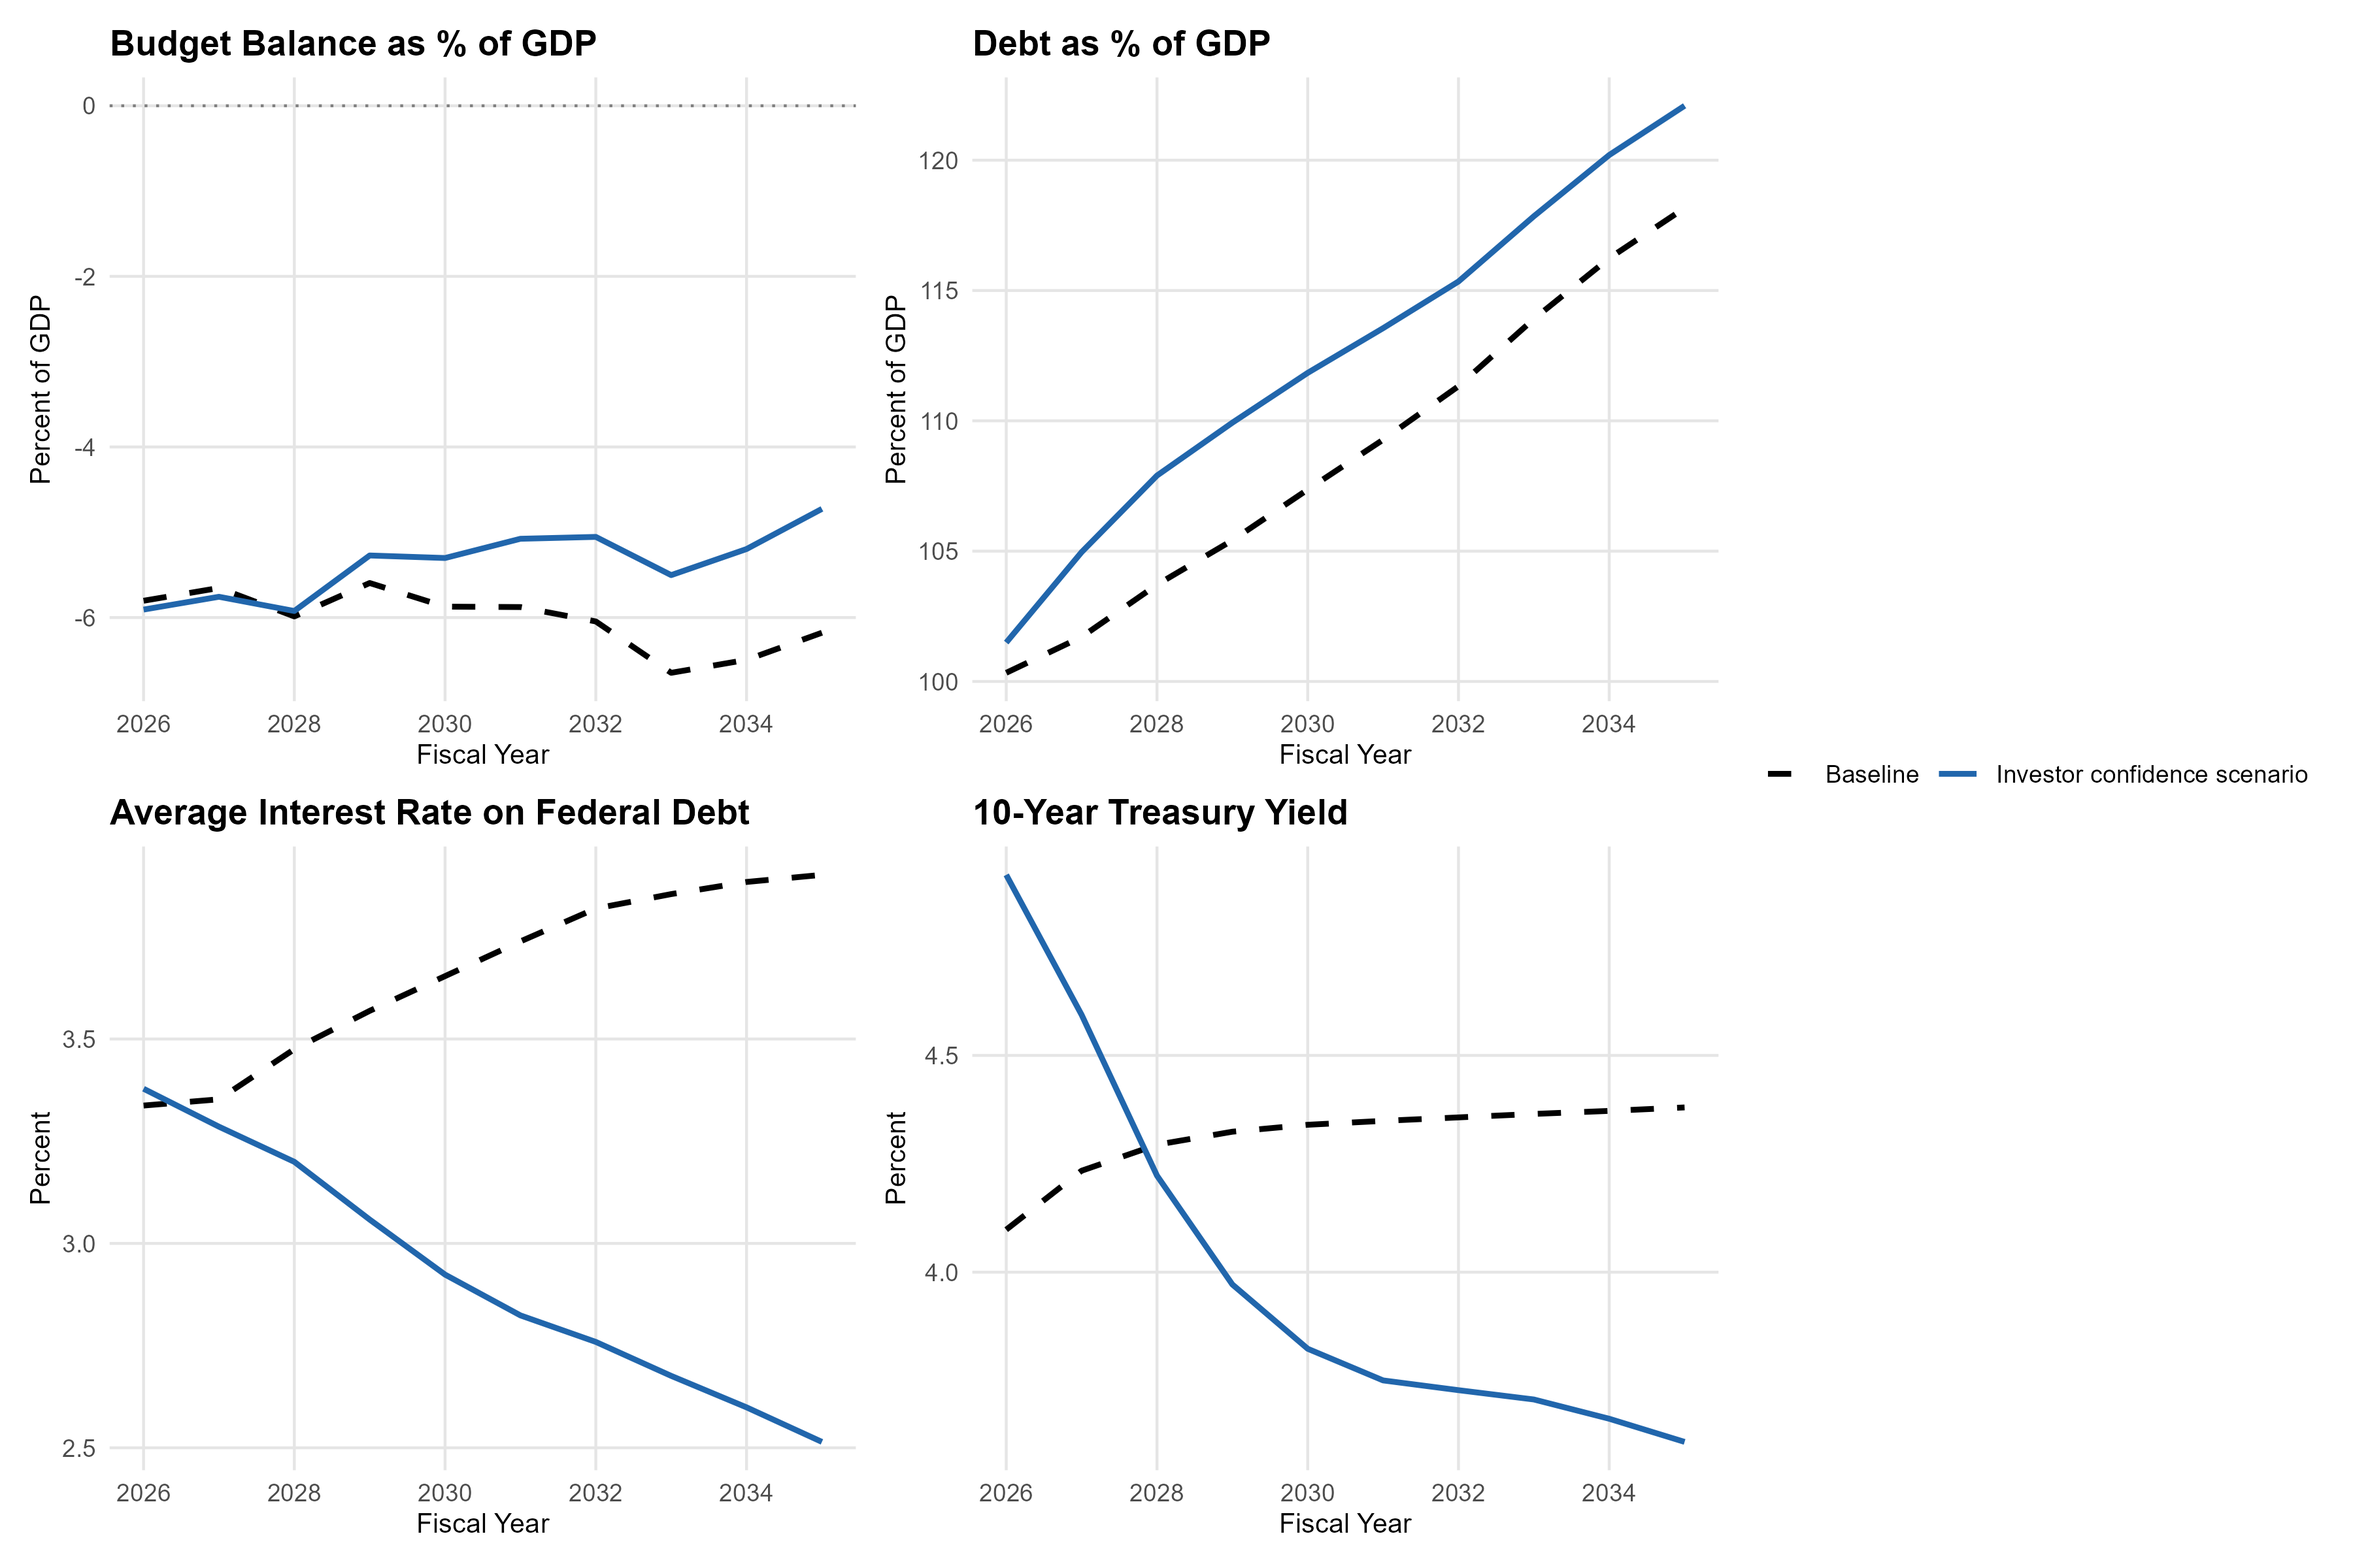
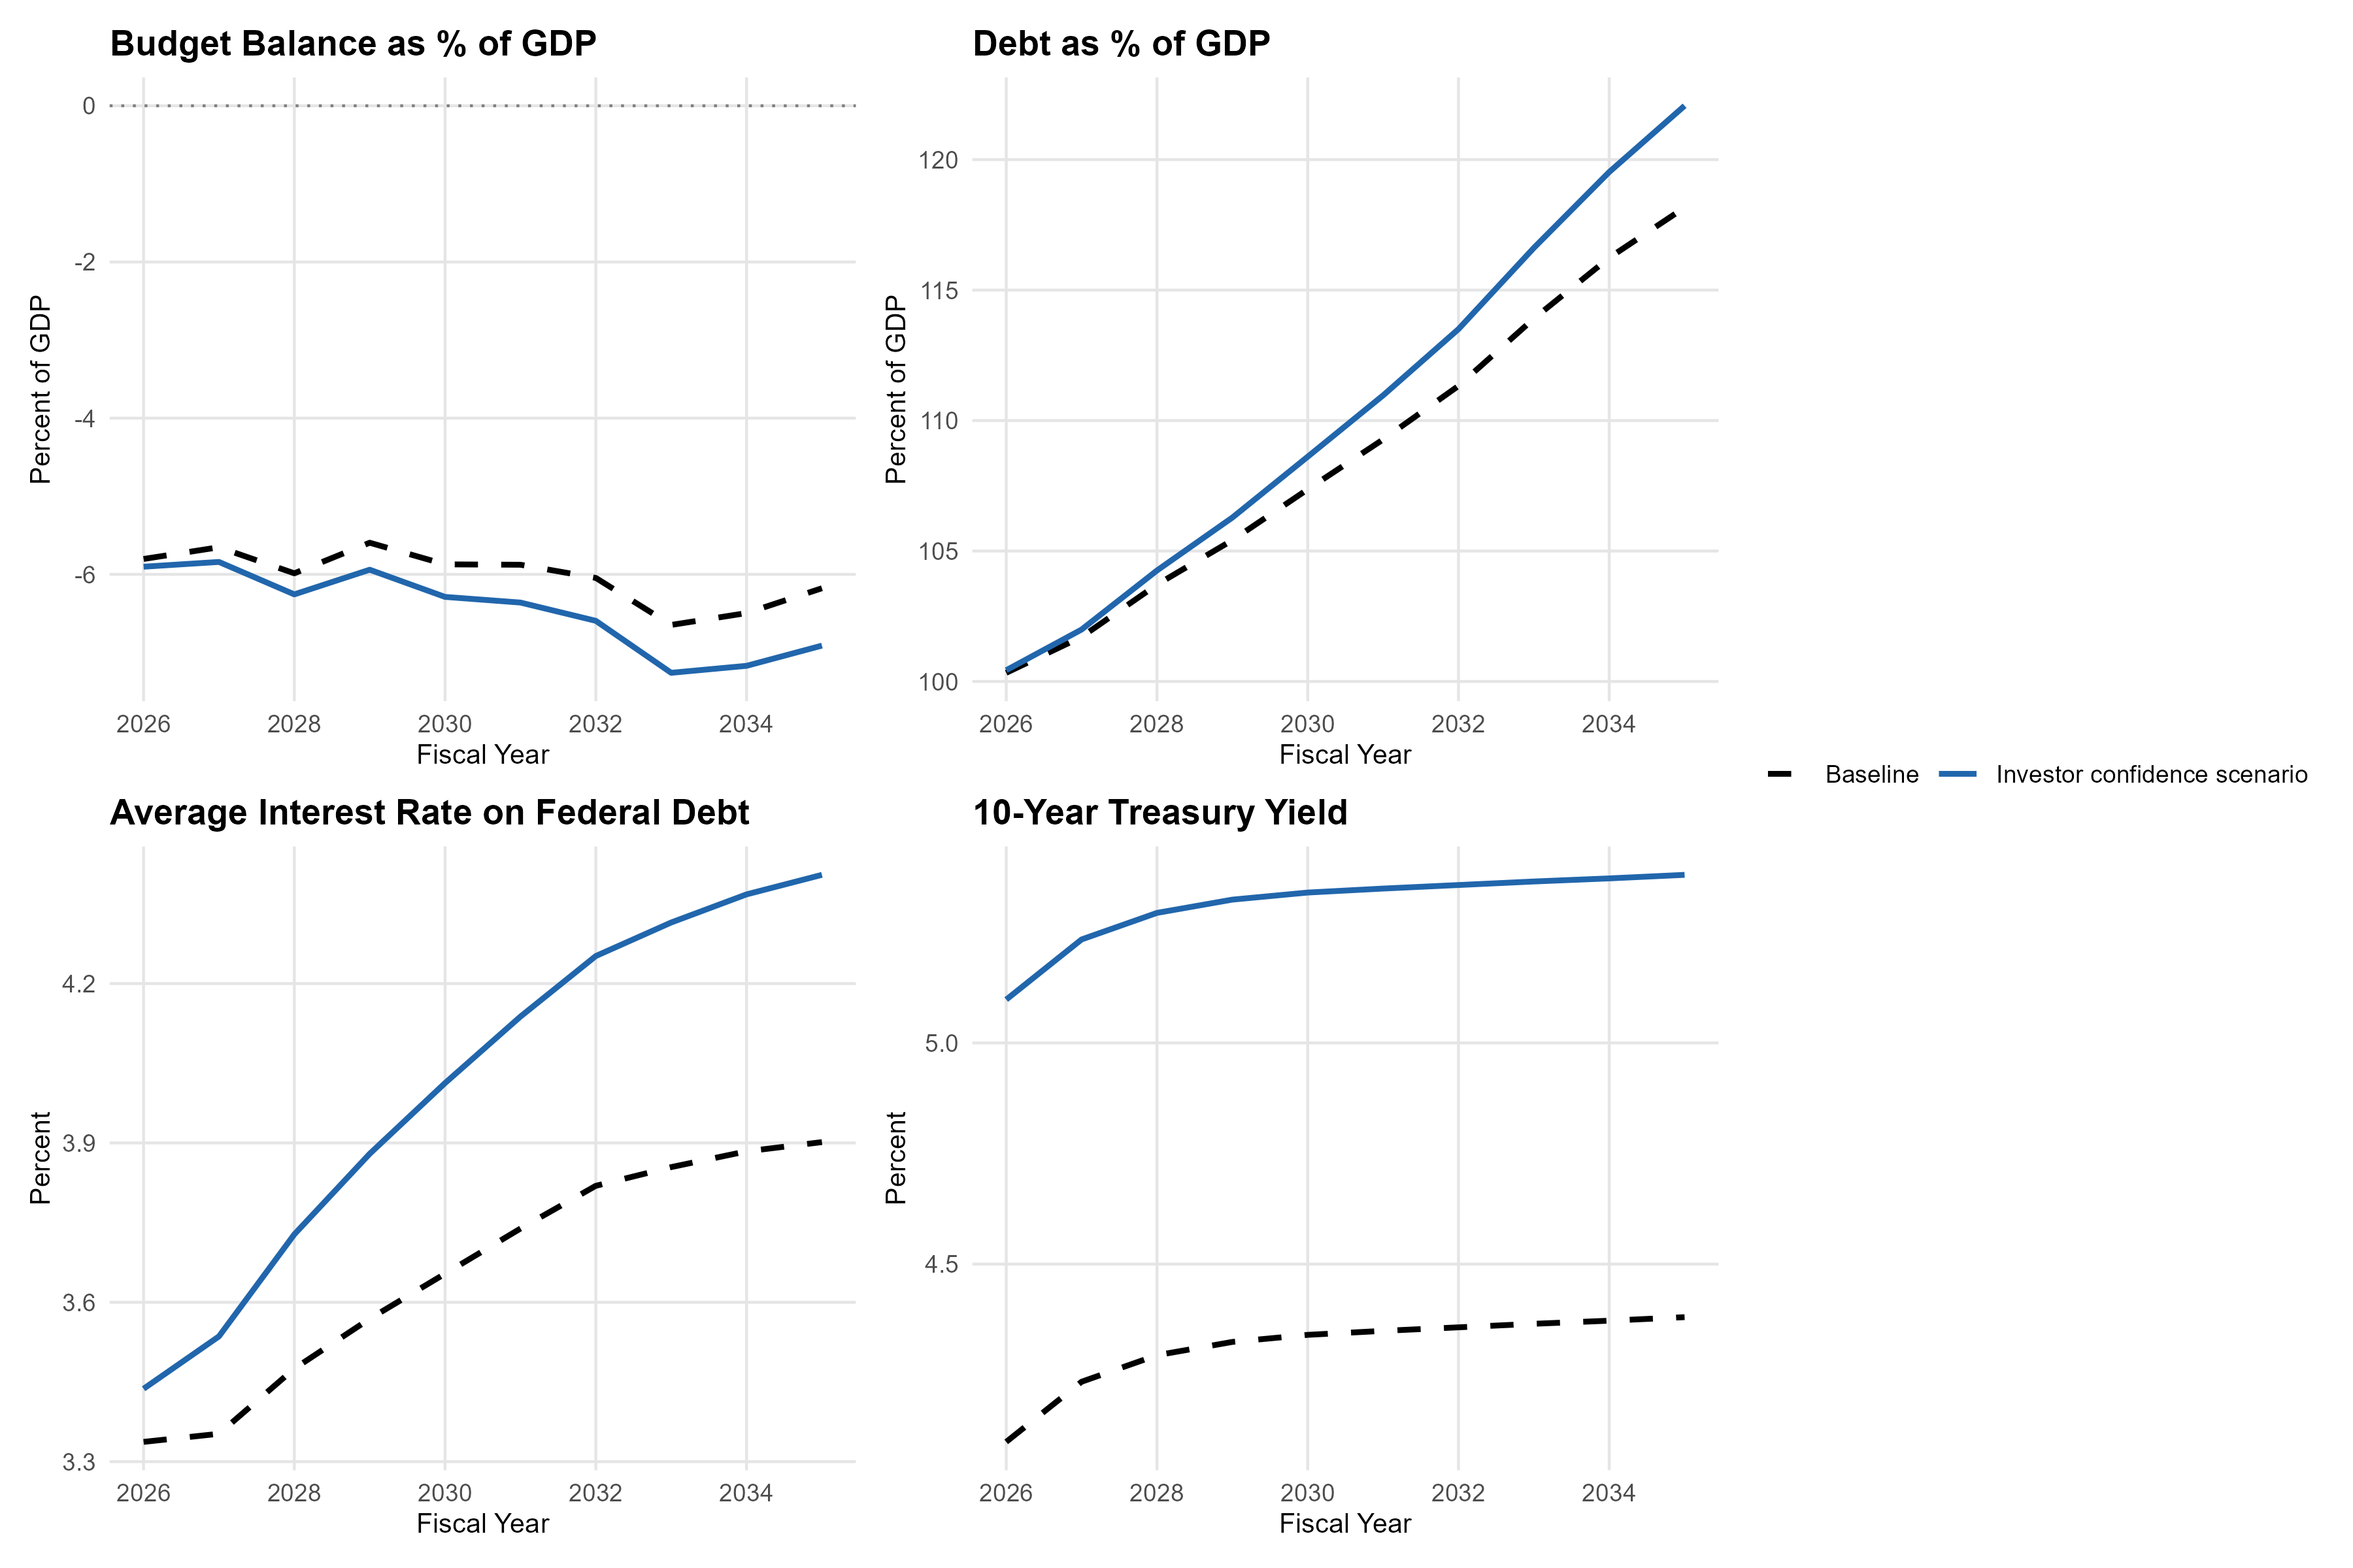
Fix investor confidence scenario and update UI
- Preserve original tp_0 values for term premium shock calculations
- Update Shiny presets to match official Excel scenarios
- Add visual emphasis to Inputs and Dashboard tabs
- Clean documentation and remove outdated references

🤖 Generated with [Claude Code](https://claude.com/claude-code)

diff --git a/scenarios/README.md b/scenarios/README.md
@@ -104,7 +104,7 @@ scenarios/
 
 1. **Military scenario** - Uses the official defense outlay path documented in `inputs/alt_military_conflict.R`.
 
-2. **Investor confidence R10** - Long rates may fall below baseline after FY2028 because the model's endogenous Fed response offsets the initial term-premium shock.
+2. **Investor confidence** - Implements a persistent +100bp term premium shock that raises both interest rates and debt throughout the forecast horizon.
 
 3. **Package version notices** - R may report package build-version notices. These do not affect scenario outputs.
 
